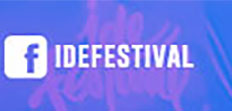
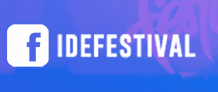
Atualizacao de resolucoa

diff --git a/css/estilo.css b/css/estilo.css
@@ -1,180 +1,113 @@
 
-#wrapper {
-  position:relative;
-  margin: auto;
-  margin-top: 5%;
-	width:1024px;
-	height:597px;
-}
 
-#lg---1024x768-01 {
+#Table_01 {
 	position:absolute;
 	left:0px;
 	top:0px;
-	width:750px;
-	height:194px;
+	width:1920px;
+	height:1080px;
+}
+
+#id1920x1080-01 {
+	position:absolute;
+	left:0px;
+	top:0px;
+	width:1920px;
+	height:42px;
+}
+
+#id1920x1080-02 {
+	position:absolute;
+	left:0px;
+	top:42px;
+	width:1317px;
+	height:356px;
 }
 
 #instagram {
 	position:absolute;
-	left:750px;
-	top:0px;
-	width:124px;
-	height:59px;
+	left:1317px;
+	top:42px;
+	width:225px;
+	height:92px;
 }
 
 #facebook {
 	position:absolute;
-	left:874px;
-	top:0px;
-	width:123px;
-	height:59px;
+	left:1542px;
+	top:42px;
+	width:218px;
+	height:92px;
 }
 
-#lg---1024x768-04 {
+#id1920x1080-05 {
 	position:absolute;
-	left:997px;
-	top:0px;
-	width:27px;
-	height:597px;
+	left:1760px;
+	top:42px;
+	width:160px;
+	height:1038px;
 }
 
-#lg---1024x768-05 {
+#id1920x1080-06 {
 	position:absolute;
-	left:750px;
-	top:59px;
-	width:247px;
-	height:135px;
+	left:1317px;
+	top:134px;
+	width:443px;
+	height:264px;
 }
 
-#lg---1024x768-06 {
+#id1920x1080-07 {
 	position:absolute;
 	left:0px;
-	top:194px;
-	width:465px;
-	height:403px;
+	top:398px;
+	width:909px;
+	height:682px;
 }
 
 #youtube {
 	position:absolute;
-	left:465px;
-	top:194px;
-	width:532px;
-	height:316px;
+	left:909px;
+	top:398px;
+	width:851px;
+	height:487px;
 }
 
-#lg---1024x768-08 {
+#id1920x1080-09 {
 	position:absolute;
-	left:465px;
-	top:510px;
-	width:532px;
-	height:17px;
+	left:909px;
+	top:885px;
+	width:851px;
+	height:38px;
 }
 
-#lg---1024x768-09 {
+#id1920x1080-10 {
 	position:absolute;
-	left:465px;
-	top:527px;
-	width:240px;
-	height:70px;
+	left:909px;
+	top:923px;
+	width:303px;
+	height:157px;
 }
 
-#primeirasessao {
+#primeira-sessao {
 	position:absolute;
-	left:705px;
-	top:527px;
-	width:143px;
-	height:55px;
+	left:1212px;
+	top:923px;
+	width:291px;
+	height:97px;
 }
 
-#segunda-sessao {
+#segunda-sessa {
 	position:absolute;
-	left:848px;
-	top:527px;
-	width:149px;
-	height:55px;
+	left:1503px;
+	top:923px;
+	width:257px;
+	height:97px;
 }
 
-#lg---1024x768-12 {
+#id1920x1080-13 {
 	position:absolute;
-	left:705px;
-	top:582px;
-	width:292px;
-	height:15px;
+	left:1212px;
+	top:1020px;
+	width:548px;
+	height:60px;
 }
-/* .bg{
-  background-image: url(../sitexl@1366x768.jpg);
-  height: 100vh;
-
-  background-repeat: no-repeat;
-  background-size:  contain	;
-  background-position: center ;
-
-  background-origin: content-box;
-
-}
-
-.video iframe{
-  position: absolute;
-  bottom: 20%;
-  right: 10%;
-  height: 40vh;
-  width: 40vw;
-} */
-
-
-/*
-@media only screen and (max-width: 640px) {
-
-  .container{
-    background-image: url(../sitesm@640x360.jpg);
-    background-repeat: no-repeat;
-    background-position: contain;
-    background-position: center;
-    height: 100vh;
-    width: 100vw;
-    background-color: red;
-  }
-
-}
-
-
-@media only screen and (max-width: 768px) {
-
-    .container{
-    background-image: url(../sitemd@768x1024.jpg);
-    background-repeat: no-repeat;
-    background-position: contain;
-    height: 100vh;
-    width: 100vw;
-    background-color: red;
-  }
-
-
-}
-
-
-@media only screen and (max-width: 992px) {
-  .container{
-    background-image: url(../sitelg@1024x768.jpg);
-    background-repeat: no-repeat;
-    background-position: contain;
-    height: 100vh;
-    width: 100vw;
-    background-color: red;
-  }
-
-}
-
-
-@media only screen and (min-width: 1200px) {
-  .container{
-    background-image: url(../sitexl@1366x768.jpg);
-    background-repeat: no-repeat;
-    background-size: contain;
-    height: 100vh;
-    width: 100vw;
-    background-color: red;
-  }
-
-} */

diff --git a/index.php b/index.php
@@ -2,63 +2,54 @@
 <html lang="en" dir="ltr">
   <head>
     <meta charset="utf-8">
-    <title>Ide Festival</title>
-
-    <link rel="stylesheet" href="css/normalize.css" />
-    <link rel="stylesheet" href="css/flexboxgrid.css" />
-    <link rel="stylesheet" href="css/estilo.css" />
-
-
+    <title></title>
+    <link rel="stylesheet" href="css/estilo.css">
   </head>
   <body>
-
-
-    <div id="wrapper">
-    	<div id="lg---1024x768-01">
-    		<img src="images/lg-@-1024x768_01.jpg" width="750" height="194" alt="">
+    <div id="Table_01">
+    	<div id="id1920x1080-01">
+    		<img src="images/1920x1080_01.jpg" width="1920" height="42" alt="">
+    	</div>
+    	<div id="id1920x1080-02">
+    		<img src="images/1920x1080_02.jpg" width="1317" height="356" alt="">
     	</div>
     	<div id="instagram">
-    	   <a href="https://instagram.com/idefestival" target="_blank"><img src="images/instagram.jpg" width="124" height="59" alt=""></a>
+    		<a href="https://www.instagram.com/idefestival" target="_blank">
+    			<img src="images/instagram.jpg" width="225" height="92" border="0" alt=""></a>
     	</div>
     	<div id="facebook">
-    		<a href="https://facebook.com/idefestival" target="_blank"><img src="images/facebook.jpg" width="123" height="59" alt=""></a>
+    		<a href="https://www.facebook.com/idefestival" target="_blank">
+    			<img src="images/facebook.jpg" width="218" height="92" border="0" alt=""></a>
     	</div>
-    	<div id="lg---1024x768-04">
-    		<img src="images/lg-@-1024x768_04.jpg" width="27" height="597" alt="">
+    	<div id="id1920x1080-05">
+    		<img src="images/1920x1080_05.jpg" width="160" height="1038" alt="">
     	</div>
-    	<div id="lg---1024x768-05">
-    		<img src="images/lg-@-1024x768_05.jpg" width="247" height="135" alt="">
+    	<div id="id1920x1080-06">
+    		<img src="images/1920x1080_06.jpg" width="443" height="264" alt="">
     	</div>
-    	<div id="lg---1024x768-06">
-    		<img src="images/lg-@-1024x768_06.jpg" width="465" height="403" alt="">
+    	<div id="id1920x1080-07">
+    		<img src="images/1920x1080_07.jpg" width="909" height="682" alt="">
     	</div>
     	<div id="youtube">
-        <iframe width="532" height="316" src="https://www.youtube.com/embed/KJ30sS6crxI" frameborder="0" allow="autoplay; encrypted-media" allowfullscreen></iframe>
-
+        <iframe width="851" height="487" src="https://www.youtube.com/embed/KJ30sS6crxI" frameborder="0" allow="autoplay; encrypted-media" allowfullscreen></iframe>
     	</div>
-    	<div id="lg---1024x768-08">
-    		<img src="images/lg-@-1024x768_08.jpg" width="532" height="17" alt="">
+    	<div id="id1920x1080-09">
+    		<img src="images/1920x1080_09.jpg" width="851" height="38" alt="">
     	</div>
-    	<div id="lg---1024x768-09">
-    		<img src="images/lg-@-1024x768_09.jpg" width="240" height="70" alt="">
+    	<div id="id1920x1080-10">
+    		<img src="images/1920x1080_10.jpg" width="303" height="157" alt="">
     	</div>
-    	<div id="primeirasessao">
+    	<div id="primeira-sessao">
     		<a href="http://bit.ly/idefestivalinfantil" target="_blank">
-    			<img src="images/primeirasessao.jpg" width="143" height="55" border="0" alt="Entre no Sympla e compre seu Ingresso!"></a>
+    			<img src="images/primeira-sessao.jpg" width="291" height="97" border="0" alt=""></a>
     	</div>
-    	<div id="segunda-sessao">
+    	<div id="segunda-sessa">
     		<a href="http://bit.ly/idefestivalconference" target="_blank">
-    			<img src="images/segunda-sessao.jpg" width="149" height="55" border="0" alt="Compre seu ingresso no Sympla!"></a>
+    			<img src="images/segunda-sessa.jpg" width="257" height="97" border="0" alt=""></a>
     	</div>
-    	<div id="lg---1024x768-12">
-    		<img src="images/lg-@-1024x768_12.jpg" width="292" height="15" alt="">
+    	<div id="id1920x1080-13">
+    		<img src="images/1920x1080_13.jpg" width="548" height="60" alt="">
     	</div>
     </div>
-
-
-    <!-- <div class="container">
-
-    </div> -->
-
   </body>
 </html>
